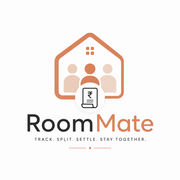
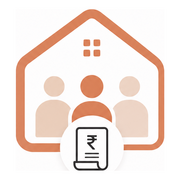
Rebrand to RoomMate, rework auth UI to match reference design
Split-panel login/signup pages (separate routes, not tabs), branded
logo mark generated at proper resolution from source assets, taller
inputs/buttons and more generous spacing for a less cramped feel.
Verified signup end-to-end against Supabase. Resources/ (design refs)
and docs/ (local progress notes) are gitignored, not pushed.

diff --git a/src/app/login/login-form.tsx b/src/app/login/login-form.tsx
@@ -2,106 +2,43 @@
 
 import { useActionState } from "react";
 import { Button } from "@/components/ui/button";
-import {
-  Card,
-  CardContent,
-  CardDescription,
-  CardHeader,
-  CardTitle,
-} from "@/components/ui/card";
 import { Input } from "@/components/ui/input";
 import { Label } from "@/components/ui/label";
-import { Tabs, TabsContent, TabsList, TabsTrigger } from "@/components/ui/tabs";
-import { signIn, signUp, type AuthState } from "./actions";
+import { signIn, type AuthState } from "./actions";
 
 const initialState: AuthState = { error: null };
 
 export function LoginForm() {
-  const [loginState, loginAction, loginPending] = useActionState(
-    signIn,
-    initialState,
-  );
-  const [signupState, signupAction, signupPending] = useActionState(
-    signUp,
-    initialState,
-  );
+  const [state, formAction, pending] = useActionState(signIn, initialState);
 
   return (
-    <Card className="border-border shadow-sm">
-      <CardHeader className="pb-2">
-        <CardTitle className="text-lg">Welcome</CardTitle>
-        <CardDescription>Sign in or create an account to continue.</CardDescription>
-      </CardHeader>
-      <CardContent>
-        <Tabs defaultValue="login">
-          <TabsList className="mb-4 w-full">
-            <TabsTrigger value="login" className="flex-1">
-              Log in
-            </TabsTrigger>
-            <TabsTrigger value="signup" className="flex-1">
-              Sign up
-            </TabsTrigger>
-          </TabsList>
-
-          <TabsContent value="login">
-            <form action={loginAction} className="flex flex-col gap-4">
-              <div className="flex flex-col gap-1.5">
-                <Label htmlFor="login-email">Email</Label>
-                <Input id="login-email" name="email" type="email" required autoComplete="email" />
-              </div>
-              <div className="flex flex-col gap-1.5">
-                <Label htmlFor="login-password">Password</Label>
-                <Input
-                  id="login-password"
-                  name="password"
-                  type="password"
-                  required
-                  autoComplete="current-password"
-                />
-              </div>
-              {loginState.error && (
-                <p className="text-sm text-destructive">{loginState.error}</p>
-              )}
-              <Button type="submit" className="mt-2 w-full" disabled={loginPending}>
-                {loginPending ? "Logging in…" : "Log in"}
-              </Button>
-            </form>
-          </TabsContent>
-
-          <TabsContent value="signup">
-            <form action={signupAction} className="flex flex-col gap-4">
-              <div className="flex flex-col gap-1.5">
-                <Label htmlFor="signup-name">Full name</Label>
-                <Input id="signup-name" name="fullName" required autoComplete="name" />
-              </div>
-              <div className="flex flex-col gap-1.5">
-                <Label htmlFor="signup-email">Email</Label>
-                <Input id="signup-email" name="email" type="email" required autoComplete="email" />
-              </div>
-              <div className="flex flex-col gap-1.5">
-                <Label htmlFor="signup-password">Password</Label>
-                <Input
-                  id="signup-password"
-                  name="password"
-                  type="password"
-                  required
-                  minLength={6}
-                  autoComplete="new-password"
-                />
-              </div>
-              {signupState.error && (
-                <p className="text-sm text-destructive">{signupState.error}</p>
-              )}
-              {signupState.message && (
-                <p className="text-sm text-muted-foreground">{signupState.message}</p>
-              )}
-              <Button type="submit" className="mt-2 w-full" disabled={signupPending}>
-                {signupPending ? "Creating account…" : "Create account"}
-              </Button>
-            </form>
-          </TabsContent>
-        </Tabs>
-      </CardContent>
-    </Card>
+    <form action={formAction} className="flex flex-col gap-5">
+      <div className="flex flex-col gap-1.5">
+        <Label htmlFor="login-email">Email</Label>
+        <Input
+          id="login-email"
+          name="email"
+          type="email"
+          placeholder="Enter your email"
+          required
+          autoComplete="email"
+        />
+      </div>
+      <div className="flex flex-col gap-1.5">
+        <Label htmlFor="login-password">Password</Label>
+        <Input
+          id="login-password"
+          name="password"
+          type="password"
+          placeholder="Enter your password"
+          required
+          autoComplete="current-password"
+        />
+      </div>
+      {state.error && <p className="text-sm text-destructive">{state.error}</p>}
+      <Button type="submit" className="mt-3 h-11 w-full rounded-xl text-base" disabled={pending}>
+        {pending ? "Logging in…" : "Log in"}
+      </Button>
+    </form>
   );
 }

diff --git a/src/app/signup/signup-form.tsx b/src/app/signup/signup-form.tsx
@@ -1,0 +1,68 @@
+"use client";
+
+import { useActionState } from "react";
+import { Button } from "@/components/ui/button";
+import { Input } from "@/components/ui/input";
+import { Label } from "@/components/ui/label";
+import { signUp, type AuthState } from "@/app/login/actions";
+
+const initialState: AuthState = { error: null };
+
+export function SignupForm() {
+  const [state, formAction, pending] = useActionState(signUp, initialState);
+
+  return (
+    <form action={formAction} className="flex flex-col gap-5">
+      <div className="flex flex-col gap-1.5">
+        <Label htmlFor="signup-name">Full name</Label>
+        <Input id="signup-name" name="fullName" placeholder="Your full name" required autoComplete="name" />
+      </div>
+      <div className="flex flex-col gap-1.5">
+        <Label htmlFor="signup-phone">
+          Phone <span className="font-normal text-muted-foreground">(optional)</span>
+        </Label>
+        <Input id="signup-phone" name="phone" type="tel" placeholder="Your phone number" autoComplete="tel" />
+      </div>
+      <div className="flex flex-col gap-1.5">
+        <Label htmlFor="signup-email">Email</Label>
+        <Input
+          id="signup-email"
+          name="email"
+          type="email"
+          placeholder="Enter your email"
+          required
+          autoComplete="email"
+        />
+      </div>
+      <div className="flex flex-col gap-1.5">
+        <Label htmlFor="signup-password">Create password</Label>
+        <Input
+          id="signup-password"
+          name="password"
+          type="password"
+          placeholder="Create a password"
+          required
+          minLength={6}
+          autoComplete="new-password"
+        />
+      </div>
+      <div className="flex flex-col gap-1.5">
+        <Label htmlFor="signup-confirm-password">Confirm password</Label>
+        <Input
+          id="signup-confirm-password"
+          name="confirmPassword"
+          type="password"
+          placeholder="Confirm your password"
+          required
+          minLength={6}
+          autoComplete="new-password"
+        />
+      </div>
+      {state.error && <p className="text-sm text-destructive">{state.error}</p>}
+      {state.message && <p className="text-sm text-muted-foreground">{state.message}</p>}
+      <Button type="submit" className="mt-3 h-11 w-full rounded-xl text-base" disabled={pending}>
+        {pending ? "Creating account…" : "Sign up"}
+      </Button>
+    </form>
+  );
+}

diff --git a/src/components/ui/input.tsx b/src/components/ui/input.tsx
@@ -8,7 +8,7 @@ function Input({ className, type, ...props }: React.ComponentProps<"input">) {
       type={type}
       data-slot="input"
       className={cn(
-        "h-8 w-full min-w-0 rounded-lg border border-input bg-transparent px-2.5 py-1 text-base transition-colors outline-none file:inline-flex file:h-6 file:border-0 file:bg-transparent file:text-sm file:font-medium file:text-foreground placeholder:text-muted-foreground focus-visible:border-ring focus-visible:ring-3 focus-visible:ring-ring/50 disabled:pointer-events-none disabled:cursor-not-allowed disabled:bg-input/50 disabled:opacity-50 aria-invalid:border-destructive aria-invalid:ring-3 aria-invalid:ring-destructive/20 md:text-sm dark:bg-input/30 dark:disabled:bg-input/80 dark:aria-invalid:border-destructive/50 dark:aria-invalid:ring-destructive/40",
+        "h-11 w-full min-w-0 rounded-xl border border-input bg-transparent px-3.5 py-1 text-base transition-colors outline-none file:inline-flex file:h-6 file:border-0 file:bg-transparent file:text-sm file:font-medium file:text-foreground placeholder:text-muted-foreground focus-visible:border-ring focus-visible:ring-3 focus-visible:ring-ring/50 disabled:pointer-events-none disabled:cursor-not-allowed disabled:bg-input/50 disabled:opacity-50 aria-invalid:border-destructive aria-invalid:ring-3 aria-invalid:ring-destructive/20 md:text-sm dark:bg-input/30 dark:disabled:bg-input/80 dark:aria-invalid:border-destructive/50 dark:aria-invalid:ring-destructive/40",
         className
       )}
       {...props}

diff --git a/src/app/signup/page.tsx b/src/app/signup/page.tsx
@@ -2,10 +2,10 @@ import Image from "next/image";
 import Link from "next/link";
 import { redirect } from "next/navigation";
 import { createClient } from "@/lib/supabase/server";
-import { AuthPanel } from "./auth-panel";
-import { LoginForm } from "./login-form";
+import { AuthPanel } from "@/app/login/auth-panel";
+import { SignupForm } from "./signup-form";
 
-export default async function LoginPage() {
+export default async function SignupPage() {
   const supabase = await createClient();
   const {
     data: { user },
@@ -31,18 +31,18 @@ export default async function LoginPage() {
           </div>
 
           <h1 className="text-3xl font-semibold tracking-tight text-foreground">
-            Welcome back
+            Create your account
           </h1>
           <p className="mt-2 mb-10 text-muted-foreground">
-            Log in to continue managing your room expenses.
+            Join your flatmates and start tracking shared expenses.
           </p>
 
-          <LoginForm />
+          <SignupForm />
 
           <p className="mt-8 text-center text-sm text-muted-foreground">
-            Don&apos;t have an account?{" "}
-            <Link href="/signup" className="font-medium text-primary hover:underline">
-              Sign up
+            Already have an account?{" "}
+            <Link href="/login" className="font-medium text-primary hover:underline">
+              Log in
             </Link>
           </p>
         </div>

diff --git a/src/app/login/auth-panel.tsx b/src/app/login/auth-panel.tsx
@@ -1,0 +1,44 @@
+import Image from "next/image";
+
+export function AuthPanel() {
+  return (
+    <div className="relative hidden flex-col justify-between overflow-hidden bg-secondary p-10 lg:flex">
+      <div
+        aria-hidden
+        className="pointer-events-none absolute -top-24 -right-24 h-72 w-72 rounded-full bg-accent"
+      />
+      <div
+        aria-hidden
+        className="pointer-events-none absolute -bottom-32 -left-16 h-80 w-80 rounded-full bg-primary/10"
+      />
+
+      <div className="relative flex items-center gap-2">
+        <Image src="/logo-mark.png" alt="" width={32} height={32} className="rounded-lg" />
+        <span className="text-lg font-semibold tracking-tight text-foreground">
+          RoomMate
+        </span>
+      </div>
+
+      <div className="relative flex flex-1 items-center justify-center">
+        <Image
+          src="/logo-mark.png"
+          alt="RoomMate"
+          width={220}
+          height={220}
+          className="drop-shadow-sm"
+          priority
+        />
+      </div>
+
+      <div className="relative">
+        <h2 className="text-2xl font-semibold tracking-tight text-foreground">
+          Track. Split. Settle.
+        </h2>
+        <p className="mt-2 max-w-xs text-muted-foreground">
+          Keep rent, bills, and shared expenses sorted with your roommates —
+          every cycle, every room.
+        </p>
+      </div>
+    </div>
+  );
+}

diff --git a/src/app/login/actions.ts b/src/app/login/actions.ts
@@ -28,13 +28,19 @@ export async function signUp(
 ): Promise<AuthState> {
   const email = formData.get("email") as string;
   const password = formData.get("password") as string;
+  const confirmPassword = formData.get("confirmPassword") as string;
   const fullName = formData.get("fullName") as string;
+  const phone = (formData.get("phone") as string) || null;
+
+  if (password !== confirmPassword) {
+    return { error: "Passwords do not match." };
+  }
 
   const supabase = await createClient();
   const { data, error } = await supabase.auth.signUp({
     email,
     password,
-    options: { data: { full_name: fullName } },
+    options: { data: { full_name: fullName, phone } },
   });
 
   if (error) return { error: error.message };

diff --git a/src/app/dashboard/page.tsx b/src/app/dashboard/page.tsx
@@ -16,9 +16,9 @@ export default async function DashboardPage() {
     <div className="min-h-svh bg-background">
       <header className="flex items-center justify-between border-b border-border px-6 py-4">
         <div className="flex items-center gap-2">
-          <Image src="/logo.png" alt="" width={28} height={28} className="rounded-lg" />
+          <Image src="/logo-mark.png" alt="" width={28} height={28} className="rounded-lg" />
           <h1 className="text-lg font-semibold tracking-tight text-foreground">
-            Room Expenses
+            RoomMate
           </h1>
         </div>
         <form action={signOut}>

diff --git a/src/app/layout.tsx b/src/app/layout.tsx
@@ -13,8 +13,8 @@ const geistMono = Geist_Mono({
 });
 
 export const metadata: Metadata = {
-  title: "Room Expenses",
-  description: "Track shared rent, bills, and expenses with your roommates.",
+  title: "RoomMate",
+  description: "Track. Split. Settle. Stay together.",
   icons: {
     icon: "/favicon.ico",
     apple: "/apple-touch-icon.png",
